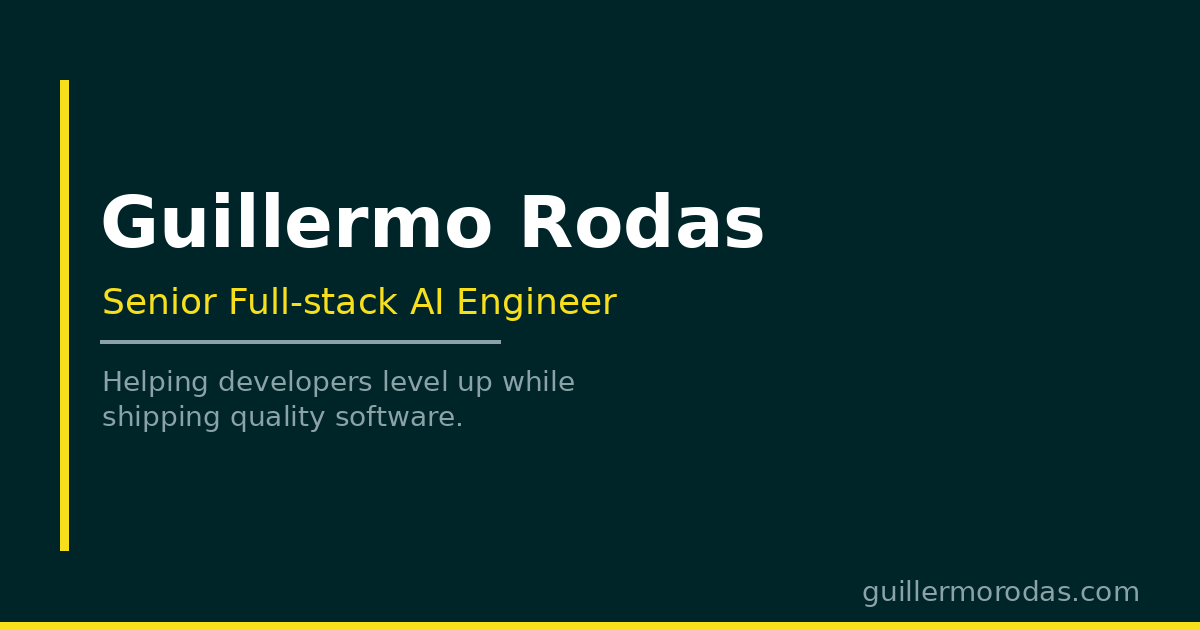
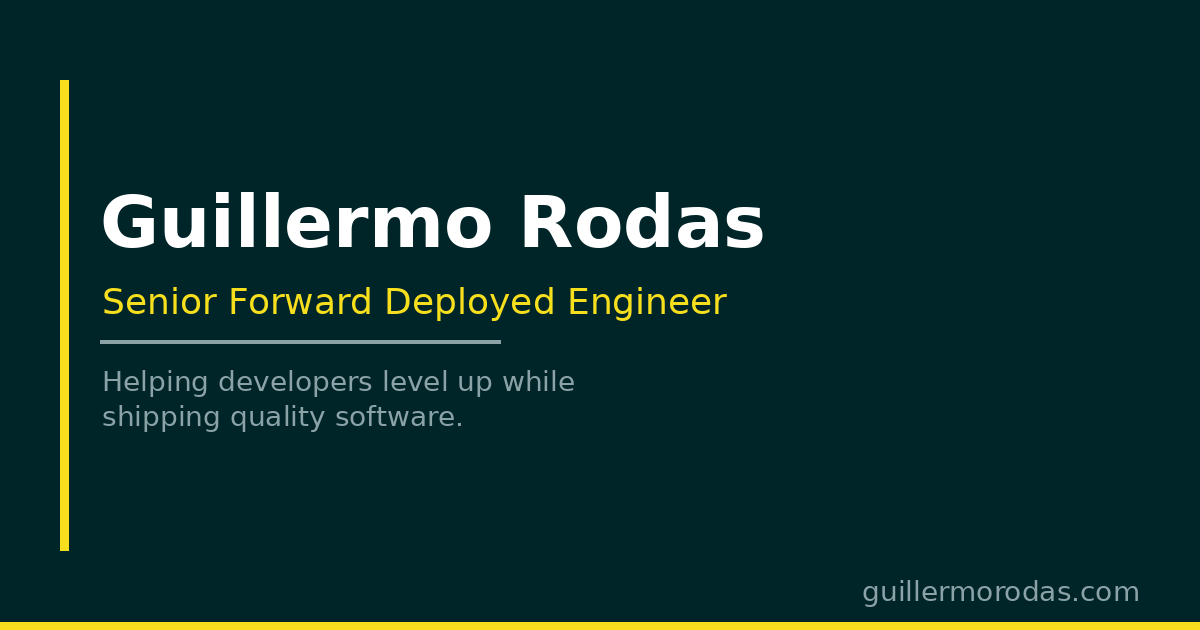
Update job title to Senior Forward Deployed Engineer (#84)

Changed region(s): [[0.2158, 0.4524, 0.6167, 0.5127]]

diff --git a/src/components/organisms/Navigation/Navigation.tsx b/src/components/organisms/Navigation/Navigation.tsx
@@ -8,6 +8,7 @@ import { useFocusTrap } from '../../../hooks/useFocusTrap';
 import { useLangPrefix } from '../../../hooks/useLangPrefix';
 import { useMediaQuery } from '../../../hooks/useMediaQuery';
 import { useLogoSecret } from '../../../hooks/useLogoSecret';
+import { useMatchWidth } from '../../../hooks/useMatchWidth';
 import { persistLocale } from '../../../i18n/persistLocale';
 import './Navigation.css';
 
@@ -52,6 +53,14 @@ export const Navigation: FC<NavigationProps> = ({
   const location = useLocation();
   // Hidden ways into the dev pages: see useLogoSecret.
   const logoSecret = useLogoSecret();
+
+  // The name scales to span the tagline so the two lines read as one lockup.
+  const brandNameRef = useRef<HTMLSpanElement>(null);
+  const brandTaglineRef = useRef<HTMLSpanElement>(null);
+  const overlayBrandNameRef = useRef<HTMLSpanElement>(null);
+  const overlayBrandTaglineRef = useRef<HTMLSpanElement>(null);
+  useMatchWidth(brandNameRef, brandTaglineRef, [siteName, siteTagline]);
+  useMatchWidth(overlayBrandNameRef, overlayBrandTaglineRef, [siteName, siteTagline]);
 
   useFocusTrap(overlayRef, mobileOpen);
 
@@ -148,8 +157,8 @@ export const Navigation: FC<NavigationProps> = ({
               height={48}
             />
             <span className="qd-navigation__brand-text">
-              <span className="qd-navigation__brand-name">{siteName}</span>
-              <span className="qd-navigation__brand-tagline">{siteTagline}</span>
+              <span ref={brandNameRef} className="qd-navigation__brand-name">{siteName}</span>
+              <span ref={brandTaglineRef} className="qd-navigation__brand-tagline">{siteTagline}</span>
             </span>
           </Link>
 
@@ -363,8 +372,8 @@ export const Navigation: FC<NavigationProps> = ({
               height={48}
             />
             <span className="qd-navigation__brand-text">
-              <span className="qd-navigation__brand-name">{siteName}</span>
-              <span className="qd-navigation__brand-tagline">{siteTagline}</span>
+              <span ref={overlayBrandNameRef} className="qd-navigation__brand-name">{siteName}</span>
+              <span ref={overlayBrandTaglineRef} className="qd-navigation__brand-tagline">{siteTagline}</span>
             </span>
           </Link>
           <button

diff --git a/src/hooks/useMatchWidth.ts b/src/hooks/useMatchWidth.ts
@@ -1,0 +1,65 @@
+import { useLayoutEffect, type RefObject } from 'react';
+
+/**
+ * Font size at which `text` spans `targetWidth`. Letter-spacing is a fixed
+ * px amount per character, so only the glyph part of the width scales.
+ */
+export function fittedFontSize(
+  fontSize: number,
+  width: number,
+  targetWidth: number,
+  letterSpacing: number,
+  charCount: number,
+): number {
+  const tracking = letterSpacing * charCount;
+  const glyphWidth = width - tracking;
+  if (glyphWidth <= 0 || targetWidth <= tracking) return fontSize;
+  return (fontSize * (targetWidth - tracking)) / glyphWidth;
+}
+
+/**
+ * Scales the font size of `fitRef` so its rendered width matches `matchRef`,
+ * re-fitting when web fonts load or the target's width changes.
+ */
+export function useMatchWidth(
+  fitRef: RefObject<HTMLElement | null>,
+  matchRef: RefObject<HTMLElement | null>,
+  deps: readonly unknown[] = [],
+): void {
+  useLayoutEffect(() => {
+    const fit = fitRef.current;
+    const match = matchRef.current;
+    if (!fit || !match) return;
+
+    const update = () => {
+      fit.style.fontSize = '';
+      const targetWidth = match.getBoundingClientRect().width;
+      const width = fit.getBoundingClientRect().width;
+      // Hidden (e.g. the closed mobile overlay on desktop): nothing to measure yet.
+      if (targetWidth === 0 || width === 0) return;
+      const style = getComputedStyle(fit);
+      const size = fittedFontSize(
+        parseFloat(style.fontSize),
+        width,
+        targetWidth,
+        parseFloat(style.letterSpacing) || 0,
+        fit.textContent?.length ?? 0,
+      );
+      fit.style.fontSize = `${size}px`;
+    };
+
+    update();
+    let cancelled = false;
+    document.fonts?.ready.then(() => {
+      if (!cancelled) update();
+    });
+    const observer = new ResizeObserver(update);
+    observer.observe(match);
+    return () => {
+      cancelled = true;
+      observer.disconnect();
+      fit.style.fontSize = '';
+    };
+    // eslint-disable-next-line react-hooks/exhaustive-deps
+  }, deps);
+}

diff --git a/index.html b/index.html
@@ -30,7 +30,7 @@
     <link rel="apple-touch-icon" sizes="180x180" href="/apple-touch-icon.png" />
     <link rel="manifest" href="/site.webmanifest" />
     <meta name="viewport" content="width=device-width, initial-scale=1.0" />
-    <title>Guillermo Rodas | Senior Full-stack AI Engineer</title>
+    <title>Guillermo Rodas | Senior Forward Deployed Engineer</title>
     <meta
       name="description"
       content="Guillermo Rodas helps developers level up while shipping quality software. Courses, AI-first programming, YouTube tutorials, and writing on blog.guillermorodas.com."
@@ -39,7 +39,7 @@
     <link rel="alternate" hreflang="en" href="https://guillermorodas.com/" />
     <link rel="alternate" hreflang="es" href="https://guillermorodas.com/es" />
     <link rel="alternate" hreflang="x-default" href="https://guillermorodas.com/" />
-    <meta property="og:title" content="Guillermo Rodas | Senior Full-stack AI Engineer" />
+    <meta property="og:title" content="Guillermo Rodas | Senior Forward Deployed Engineer" />
     <meta
       property="og:description"
       content="Guillermo Rodas helps developers level up while shipping quality software. Courses, AI-first programming, YouTube tutorials, and writing on blog.guillermorodas.com."
@@ -52,7 +52,7 @@
     <meta property="og:image:width" content="1200" />
     <meta property="og:image:height" content="630" />
     <meta name="twitter:card" content="summary_large_image" />
-    <meta name="twitter:title" content="Guillermo Rodas | Senior Full-stack AI Engineer" />
+    <meta name="twitter:title" content="Guillermo Rodas | Senior Forward Deployed Engineer" />
     <meta
       name="twitter:description"
       content="Guillermo Rodas helps developers level up while shipping quality software. Courses, AI-first programming, YouTube tutorials, and writing on blog.guillermorodas.com."

diff --git a/src/hooks/useMatchWidth.test.ts b/src/hooks/useMatchWidth.test.ts
@@ -1,0 +1,18 @@
+import { describe, expect, it } from 'vitest';
+import { fittedFontSize } from './useMatchWidth';
+
+describe('fittedFontSize', () => {
+  it('scales the glyph width to the target, keeping letter-spacing fixed', () => {
+    // 10 chars at 2px tracking: 20px tracking + 80px glyphs = 100px wide.
+    // Reaching 140px needs 120px of glyphs, so 1.5x the font size.
+    expect(fittedFontSize(16, 100, 140, 2, 10)).toBe(24);
+  });
+
+  it('scales proportionally without letter-spacing', () => {
+    expect(fittedFontSize(20, 200, 100, 0, 12)).toBe(10);
+  });
+
+  it('keeps the font size when tracking alone exceeds the target', () => {
+    expect(fittedFontSize(16, 100, 15, 2, 10)).toBe(16);
+  });
+});

diff --git a/src/data/site.ts b/src/data/site.ts
@@ -3,7 +3,7 @@ export const SITE_NAME = 'Guillermo Rodas';
 export const BLOG_URL = 'https://blog.guillermorodas.com';
 
 export const SITE_TAGLINE =
-  'Senior Full-stack AI Engineer';
+  'Senior Forward Deployed Engineer';
 
 export const HERO_HEADLINE = 'Tech partner for big companies';
 

diff --git a/README.md b/README.md
@@ -1,6 +1,6 @@
 # Guillermo Rodas — Personal Website
 
-Personal website for Guillermo Rodas, Senior Full-stack AI Engineer and community lead helping developers level up while shipping quality software.
+Personal website for Guillermo Rodas, Senior Forward Deployed Engineer and community lead helping developers level up while shipping quality software.
 
 ## Pages
 
